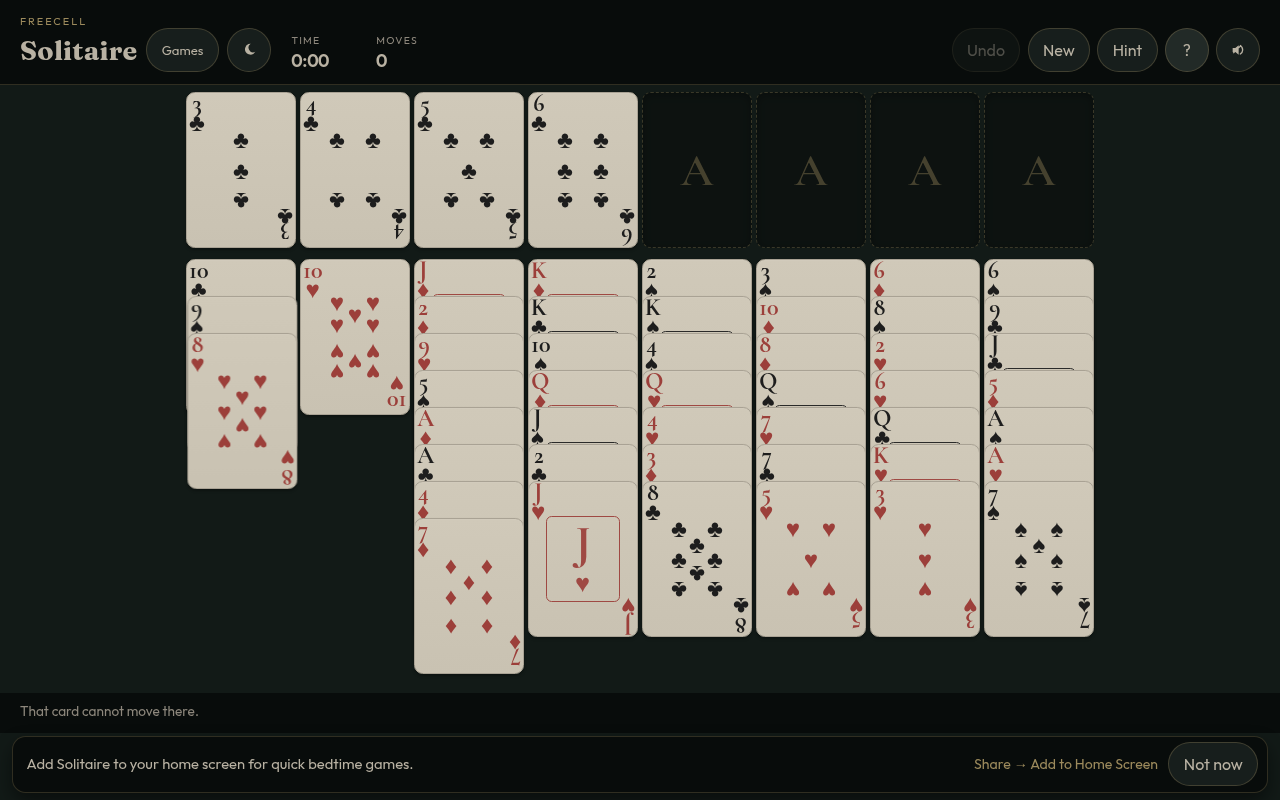
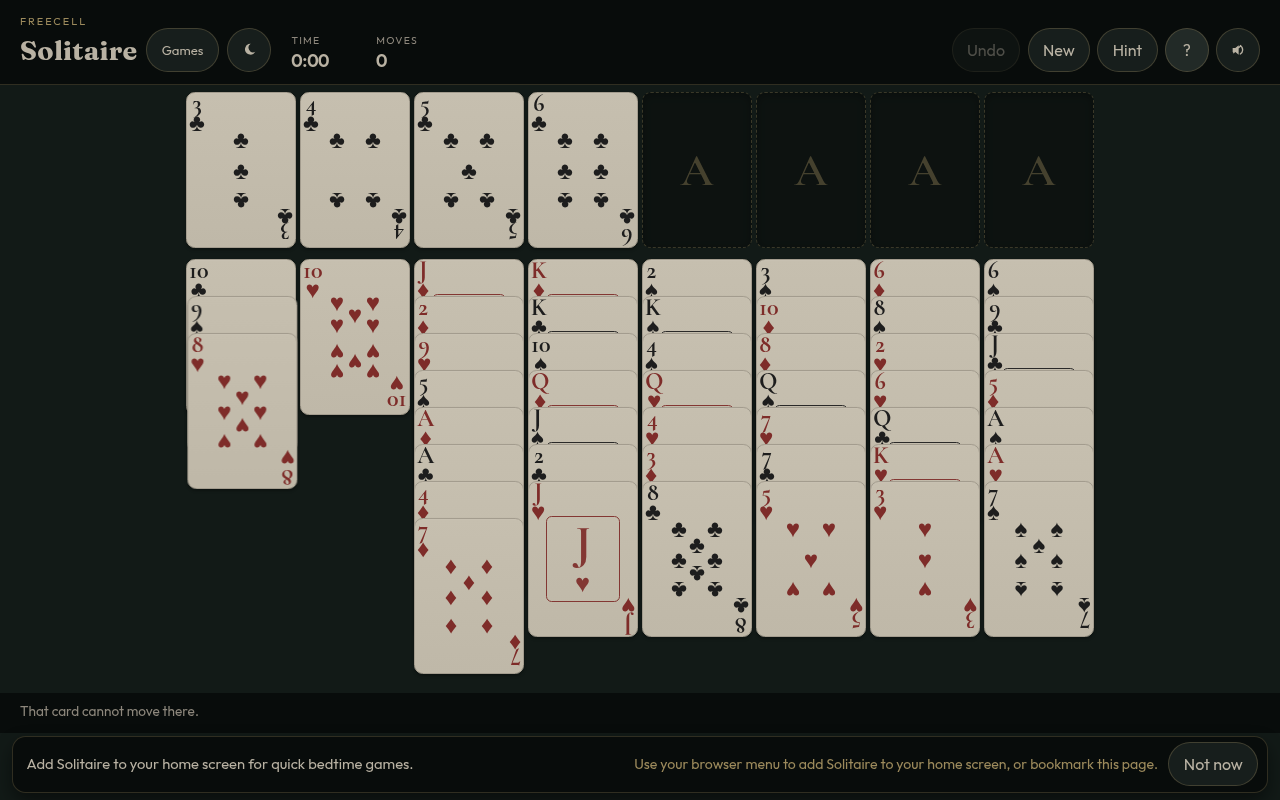
Help tip at the top, clearer install copy, shake on illegal taps, softer night cards
- Tip in BTC sits right under each Help heading, visible without scrolling on a phone
- Install hint without a browser install prompt: browser menu / bookmark wording (iOS: Share, then Add to Home Screen)
- Illegal tap moves and stuck double-taps shake the card like a bad drop (painted after re-render)
- Once-a-day tip block shared by win screens and the Klondike stuck panel
- Night theme: dimmer card faces with darker red ink, ranks stay above 4.5:1 contrast
- Browser tests for batch 3

diff --git a/src/ui-freecell.js b/src/ui-freecell.js
@@ -446,6 +446,7 @@ export function mount(options = {}) {
     const shortcuts = `<li><kbd>N</kbd> new deal</li><li><kbd>U</kbd> or <kbd>Ctrl</kbd>+<kbd>Z</kbd> undo</li><li><kbd>H</kbd> hint</li>`;
     root.overlay.innerHTML = `<div class="modal" data-testid="help-modal">
       <h2>FreeCell</h2>
+      <div class="help-tip-row">${tipEntryHTML("help-tip")}</div>
       ${touchTipsHTML(gestures)}
       <p>Microsoft deal numbers 1–32000. Eight cascades, all cards face up. Four free cells and four foundations.</p>
       <p>Build cascades down by alternating color. Any card or legal run may move to an empty cascade. Build foundations up by suit, ace through king. A free cell holds one card.</p>
@@ -458,7 +459,6 @@ export function mount(options = {}) {
       <div class="modal-actions">
         <button type="button" class="btn primary" data-act="close">Close</button>
       </div>
-      ${tipEntryHTML("help-tip")}
     </div>`;
     syncPlayClock();
   }
@@ -655,7 +655,14 @@ export function mount(options = {}) {
 
   function doDouble(from) {
     if (session.animating) return;
-    if ((from.count ?? 1) !== 1 || from.zone === "foundation") return;
+    if ((from.count ?? 1) !== 1 || from.zone === "foundation") {
+      if ((from.count ?? 1) !== 1 && from.zone !== "foundation") {
+        sounds.illegal(session.muted);
+        setStatus("That card cannot move there.");
+        nudgeBoard(from);
+      }
+      return;
+    }
     const single = { zone: from.zone, index: from.index, count: 1 };
     const toFoundation = moveCards(session.state, single, { zone: "foundation" });
     if (toFoundation.ok) {
@@ -794,6 +801,15 @@ export function mount(options = {}) {
       }
       if (canMove(session.selected, dest)) {
         tryMove(session.selected, dest);
+        return;
+      }
+      if (cardEl?.classList.contains("playable")) {
+        const from = { ...session.selected };
+        session.selected = loc;
+        render();
+        sounds.illegal(session.muted);
+        setStatus("That card cannot move there.");
+        nudgeBoard(from);
         return;
       }
     }

diff --git a/src/install-hint.js b/src/install-hint.js
@@ -46,12 +46,43 @@ function refit() {
   window.dispatchEvent(new Event("resize"));
 }
 
+const INSTALL_IOS_COPY = "Tap Share, then Add to Home Screen.";
+const INSTALL_OTHER_COPY = "Use your browser menu to add Solitaire to your home screen, or bookmark this page.";
+
+/**
+ * Fallback line when `beforeinstallprompt` was not captured.
+ * An install event shows the Install button instead, so this is empty.
+ * `ios` is iOS Safari; every other browser gets the neutral line.
+ */
+export function installFallbackCopy({ ios = false, hasInstallEvent = false } = {}) {
+  if (hasInstallEvent) return "";
+  return ios ? INSTALL_IOS_COPY : INSTALL_OTHER_COPY;
+}
+
+function isIosSafari() {
+  if (typeof navigator === "undefined") return false;
+  const ua = navigator.userAgent || "";
+  if (/CriOS|FxiOS|EdgiOS|OPiOS|DuckDuckGo/i.test(ua)) return false;
+  const iPhone = /iPhone|iPad|iPod/i.test(ua);
+  const iPadOs =
+    navigator.platform === "MacIntel" &&
+    (navigator.maxTouchPoints || 0) > 1 &&
+    /Safari/i.test(ua) &&
+    !/Chrome|Chromium|Android/i.test(ua);
+  if (!iPhone && !iPadOs) return false;
+  return /WebKit/i.test(ua);
+}
+
 function syncInstallActions() {
   const go = typeof document === "undefined" ? null : document.getElementById("install-go");
   const share = typeof document === "undefined" ? null : document.getElementById("install-share");
   const canInstall = !!deferredPrompt;
   if (go) go.hidden = !canInstall;
-  if (share) share.hidden = canInstall;
+  if (share) {
+    const copy = installFallbackCopy({ ios: isIosSafari(), hasInstallEvent: canInstall });
+    if (copy) share.textContent = copy;
+    share.hidden = canInstall;
+  }
 }
 
 export function hideInstallHint() {

diff --git a/src/motion.js b/src/motion.js
@@ -21,9 +21,21 @@ function slotForMove(scope, from) {
   return scope.querySelector(`[data-drop="${drop}"]`);
 }
 
-/** Brief shake on the cards (or slot) from a rejected move. */
-export function shakeMoved(from, root) {
-  if (typeof document === "undefined") return;
+function prefersReducedMotion() {
+  try {
+    return typeof window !== "undefined" && window.matchMedia?.("(prefers-reduced-motion: reduce)")?.matches === true;
+  } catch {
+    return false;
+  }
+}
+
+function snapshotFrom(from) {
+  if (!from || typeof from !== "object") return null;
+  return { zone: from.zone, index: from.index, count: from.count };
+}
+
+function paintShake(from, root) {
+  if (typeof document === "undefined" || prefersReducedMotion()) return;
   const scope = root || document.getElementById("table") || document;
   let nodes = cardsForMove(scope, from);
   if (!nodes.length && from?.zone) {
@@ -36,4 +48,18 @@ export function shakeMoved(from, root) {
     void el.offsetWidth;
     el.classList.add("shake");
   }
+}
+
+/**
+ * Brief shake on the cards (or slot) from a rejected move.
+ * Painted on a microtask so a same-turn re-render cannot drop the class.
+ * Reduced motion adds nothing. The CSS animation is 250ms.
+ */
+export function shakeMoved(from, root) {
+  if (typeof document === "undefined" || prefersReducedMotion()) return;
+  const snapshot = snapshotFrom(from);
+  const scopeRoot = root || null;
+  const run = () => paintShake(snapshot, scopeRoot);
+  if (typeof queueMicrotask === "function") queueMicrotask(run);
+  else run();
 }

diff --git a/src/ui-kings.js b/src/ui-kings.js
@@ -527,6 +527,7 @@ export function mount(options = {}) {
     const shortcuts = `<li><kbd>N</kbd> new deal</li><li><kbd>U</kbd> or <kbd>Ctrl</kbd>+<kbd>Z</kbd> undo</li><li><kbd>H</kbd> hint</li><li><kbd>Space</kbd> draw</li><li><kbd>R</kbd> replay</li>`;
     root.overlay.innerHTML = `<div class="modal" data-testid="help-modal">
       <h2>King's Corners</h2>
+      <div class="help-tip-row">${tipEntryHTML("help-tip")}</div>
       ${touchTipsHTML(gestures)}
       <div class="modal-actions help-deal">
         <p data-testid="deal-number">Seed ${session.state.seed}</p>
@@ -544,7 +545,6 @@ export function mount(options = {}) {
       <div class="modal-actions">
         <button type="button" class="btn primary" data-act="close">Close</button>
       </div>
-      ${tipEntryHTML("help-tip")}
     </div>`;
     syncPlayClock();
   }
@@ -773,9 +773,17 @@ export function mount(options = {}) {
         render();
         return;
       }
+      const prev = session.selected ? { ...session.selected } : null;
+      const rejected = !!(prev && locKey(prev) !== locKey(src));
       session.selected = src;
       render();
-      setStatus("Choose a destination, or drag the card.");
+      if (rejected) {
+        sounds.illegal(session.muted);
+        setStatus("That card cannot move there.");
+        nudgeBoard(prev);
+      } else {
+        setStatus("Choose a destination, or drag the card.");
+      }
       return;
     }
     if (session.selected && (dest.zone === "side" || dest.zone === "corner")) {

diff --git a/test/install-hint.test.js b/test/install-hint.test.js
@@ -1,5 +1,5 @@
 import { describe, expect, it } from "vitest";
-import { shouldShowInstallHint } from "../src/install-hint.js";
+import { installFallbackCopy, shouldShowInstallHint } from "../src/install-hint.js";
 
 describe("shouldShowInstallHint", () => {
   it("shows after the first win when the app is in a browser tab", () => {
@@ -20,5 +20,25 @@ describe("shouldShowInstallHint", () => {
   it("stays hidden when the app is already standalone", () => {
     expect(shouldShowInstallHint({}, { standalone: true, totalWins: 2 })).toBe(false);
     expect(shouldShowInstallHint({ installHint: null }, { standalone: true, totalWins: 1 })).toBe(false);
+  });
+});
+
+describe("installFallbackCopy", () => {
+  it("leaves the line empty when an install event was captured", () => {
+    expect(installFallbackCopy({ ios: true, hasInstallEvent: true })).toBe("");
+    expect(installFallbackCopy({ ios: false, hasInstallEvent: true })).toBe("");
+  });
+
+  it("tells iOS Safari to use the Share sheet", () => {
+    expect(installFallbackCopy({ ios: true, hasInstallEvent: false })).toBe("Tap Share, then Add to Home Screen.");
+  });
+
+  it("uses browser-neutral wording for every other browser", () => {
+    expect(installFallbackCopy({ ios: false })).toBe(
+      "Use your browser menu to add Solitaire to your home screen, or bookmark this page.",
+    );
+    expect(installFallbackCopy()).toBe(
+      "Use your browser menu to add Solitaire to your home screen, or bookmark this page.",
+    );
   });
 });

diff --git a/src/styles.css b/src/styles.css
@@ -9,16 +9,16 @@ html[data-theme="night"] {
   --gold-soft: rgba(156, 138, 92, 0.16);
   --outline: rgba(156, 138, 92, 0.7);
   --line: rgba(156, 138, 92, 0.28);
-  --ivory: #c9c2b2;
-  --ivory-top: #d0c9b9;
-  --ivory-edge: #a9a294;
-  --red: #9c3f3a;
+  --ivory: #bfb8a8;
+  --ivory-top: #c6bfaf;
+  --ivory-edge: #a39c8e;
+  --red: #7e2c29;
   --ink: #1d1d1d;
   --navy: #1a2e32;
   --text: #b9b2a3;
   --muted: #8d877c;
   --shadow: 0 8px 18px rgba(0, 0, 0, 0.45);
-  --card-sheen: rgba(255, 255, 255, 0.05);
+  --card-sheen: rgba(255, 255, 255, 0.04);
   --btn-bg: #171e1c;
   --btn-hover: #222a27;
   --btn-border: rgba(156, 138, 92, 0.32);
@@ -1388,6 +1388,22 @@ body[data-game="kings"] #drag-layer .ghost .card:first-child {
   padding: 0.5rem 0.85rem;
 }
 
+.help-tip-row {
+  display: flex;
+  align-items: center;
+  min-height: 44px;
+  margin: 0 0 0.45rem;
+}
+
+.modal h2:has(+ .help-tip-row) {
+  margin-bottom: 0.2rem;
+}
+
+.help-tip-row .tip-entry {
+  margin: 0;
+  justify-content: flex-start;
+}
+
 .tip-entry {
   appearance: none;
   display: inline-flex;
@@ -1763,9 +1779,13 @@ body[data-game="kings"] #drag-layer .ghost .card:first-child {
 }
 
 .install-hint-share {
+  flex: 1 1 12rem;
+  min-width: 0;
+  max-width: 100%;
   color: var(--gold);
   font-size: 0.88rem;
-  line-height: 1.3;
+  line-height: 1.35;
+  overflow-wrap: anywhere;
 }
 
 .install-hint-share[hidden] {

diff --git a/src/ui.js b/src/ui.js
@@ -601,6 +601,7 @@ export function mount(options = {}) {
         <li>Double-tap a card to send it to a foundation</li>`;
     showOverlay(`<div class="modal" data-testid="help-modal">
       <h2>Klondike</h2>
+      <div class="help-tip-row">${tipEntryHTML("help-tip")}</div>
       ${touchTipsHTML(gestures)}
       <p>Build the four foundations up by suit from ace to king. On the tableau, stack cards down in alternating colors. Empty columns take kings.</p>
       <p>When no useful moves remain, a panel offers Undo, Replay this deal, or New deal.</p>
@@ -609,7 +610,6 @@ export function mount(options = {}) {
       <div class="modal-actions">
         <button class="btn primary" data-act="close">Close</button>
       </div>
-      ${tipEntryHTML("help-tip")}
     </div>`, { modal: "help" });
   }
 
@@ -855,6 +855,11 @@ export function mount(options = {}) {
         return;
       }
       if (tryMove(session.selected, loc)) return;
+      if (cardEl?.classList.contains("playable")) {
+        session.selected = loc;
+        render();
+        return;
+      }
     }
     if (cardEl?.classList.contains("playable")) {
       session.selected = loc;

diff --git a/src/ui-golf.js b/src/ui-golf.js
@@ -417,6 +417,7 @@ export function mount(options = {}) {
     const shortcuts = `<li><kbd>N</kbd> new deal</li><li><kbd>U</kbd> or <kbd>Ctrl</kbd>+<kbd>Z</kbd> undo</li><li><kbd>H</kbd> hint</li><li><kbd>Space</kbd> draw</li><li><kbd>R</kbd> replay</li>`;
     root.overlay.innerHTML = `<div class="modal" data-testid="help-modal">
       <h2>Golf</h2>
+      <div class="help-tip-row">${tipEntryHTML("help-tip")}</div>
       ${touchTipsHTML(gestures)}
       <div class="modal-actions help-deal">
         <p data-testid="deal-number">Seed ${session.state.seed}</p>
@@ -430,7 +431,6 @@ export function mount(options = {}) {
       <div class="modal-actions">
         <button type="button" class="btn primary" data-act="close">Close</button>
       </div>
-      ${tipEntryHTML("help-tip")}
     </div>`;
     syncPlayClock();
   }
@@ -556,6 +556,7 @@ export function mount(options = {}) {
   function doApply(action) {
     const result = apply(session.state, action);
     if (!result.ok) {
+      sounds.illegal(session.muted);
       setStatus(statusFor(result));
       const from =
         action?.type === "play"

diff --git a/index.html b/index.html
@@ -72,7 +72,7 @@
         <p class="install-hint-copy">Add Solitaire to your home screen for quick bedtime games.</p>
         <div class="install-hint-actions">
           <button type="button" class="btn primary" id="install-go" data-testid="install-go" hidden>Install</button>
-          <p class="install-hint-share" id="install-share">Share → Add to Home Screen</p>
+          <p class="install-hint-share" id="install-share">Use your browser menu to add Solitaire to your home screen, or bookmark this page.</p>
           <button type="button" class="btn" id="install-dismiss" data-testid="install-dismiss">Not now</button>
         </div>
       </div>
